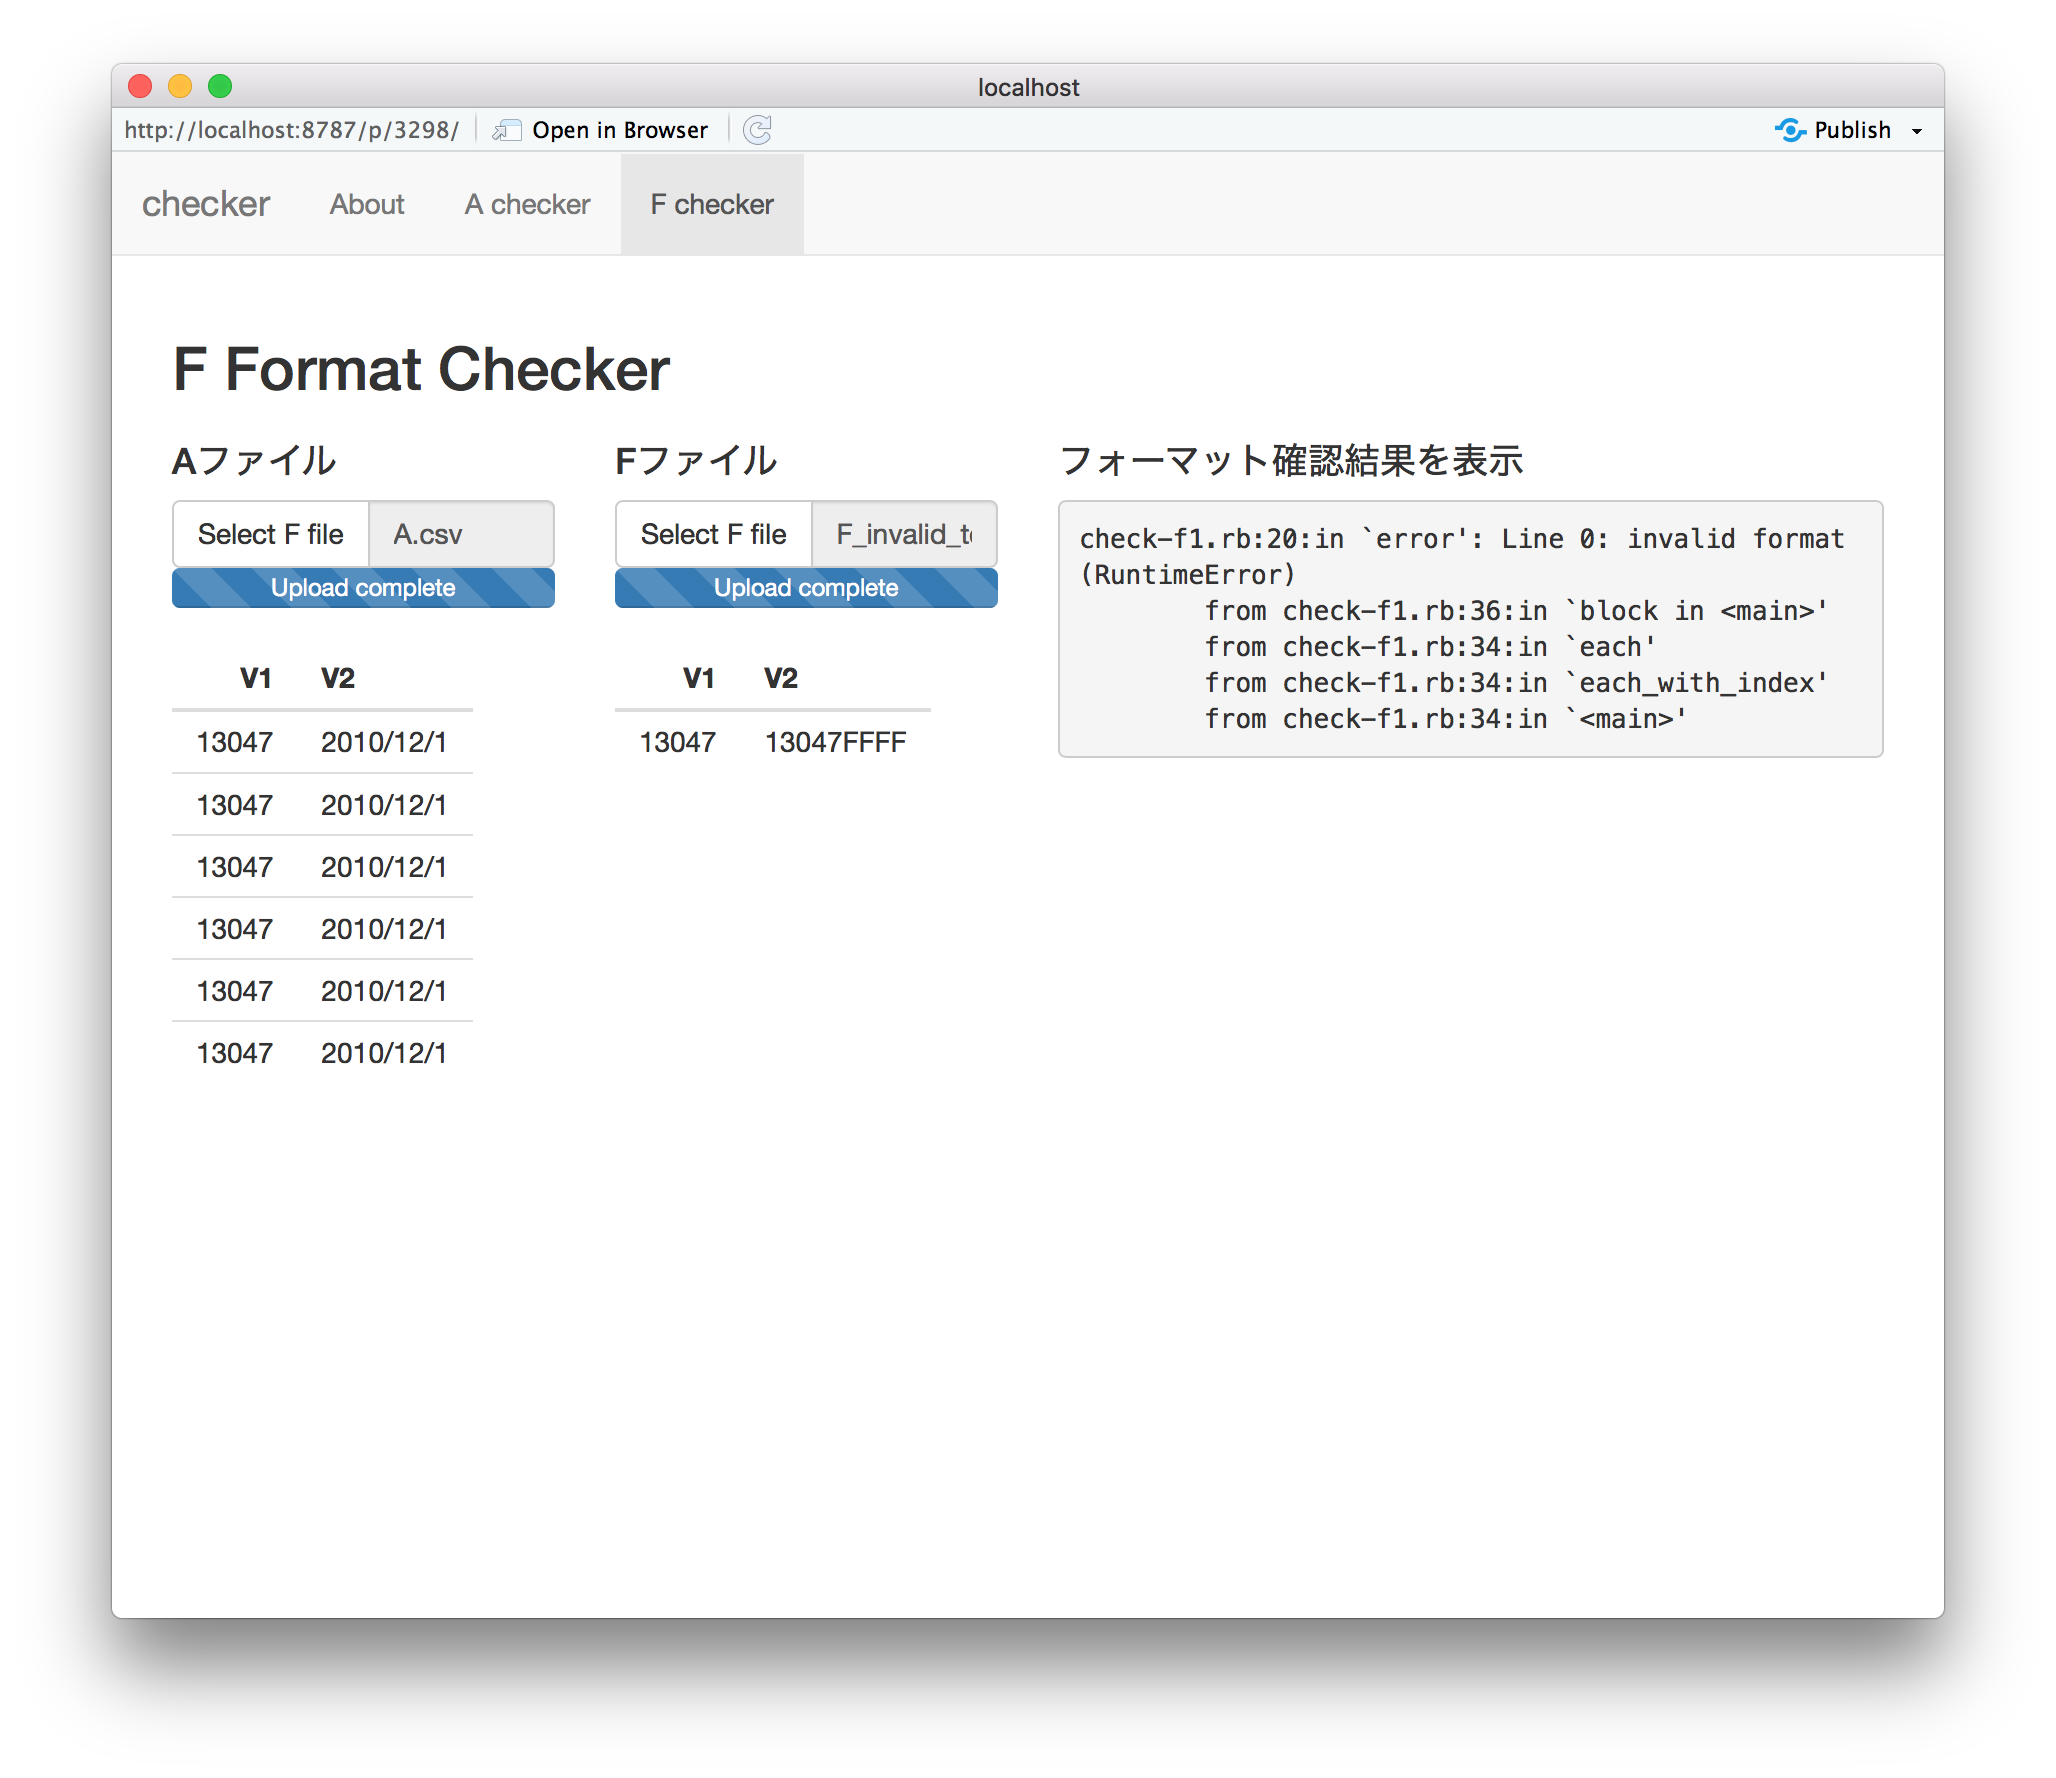
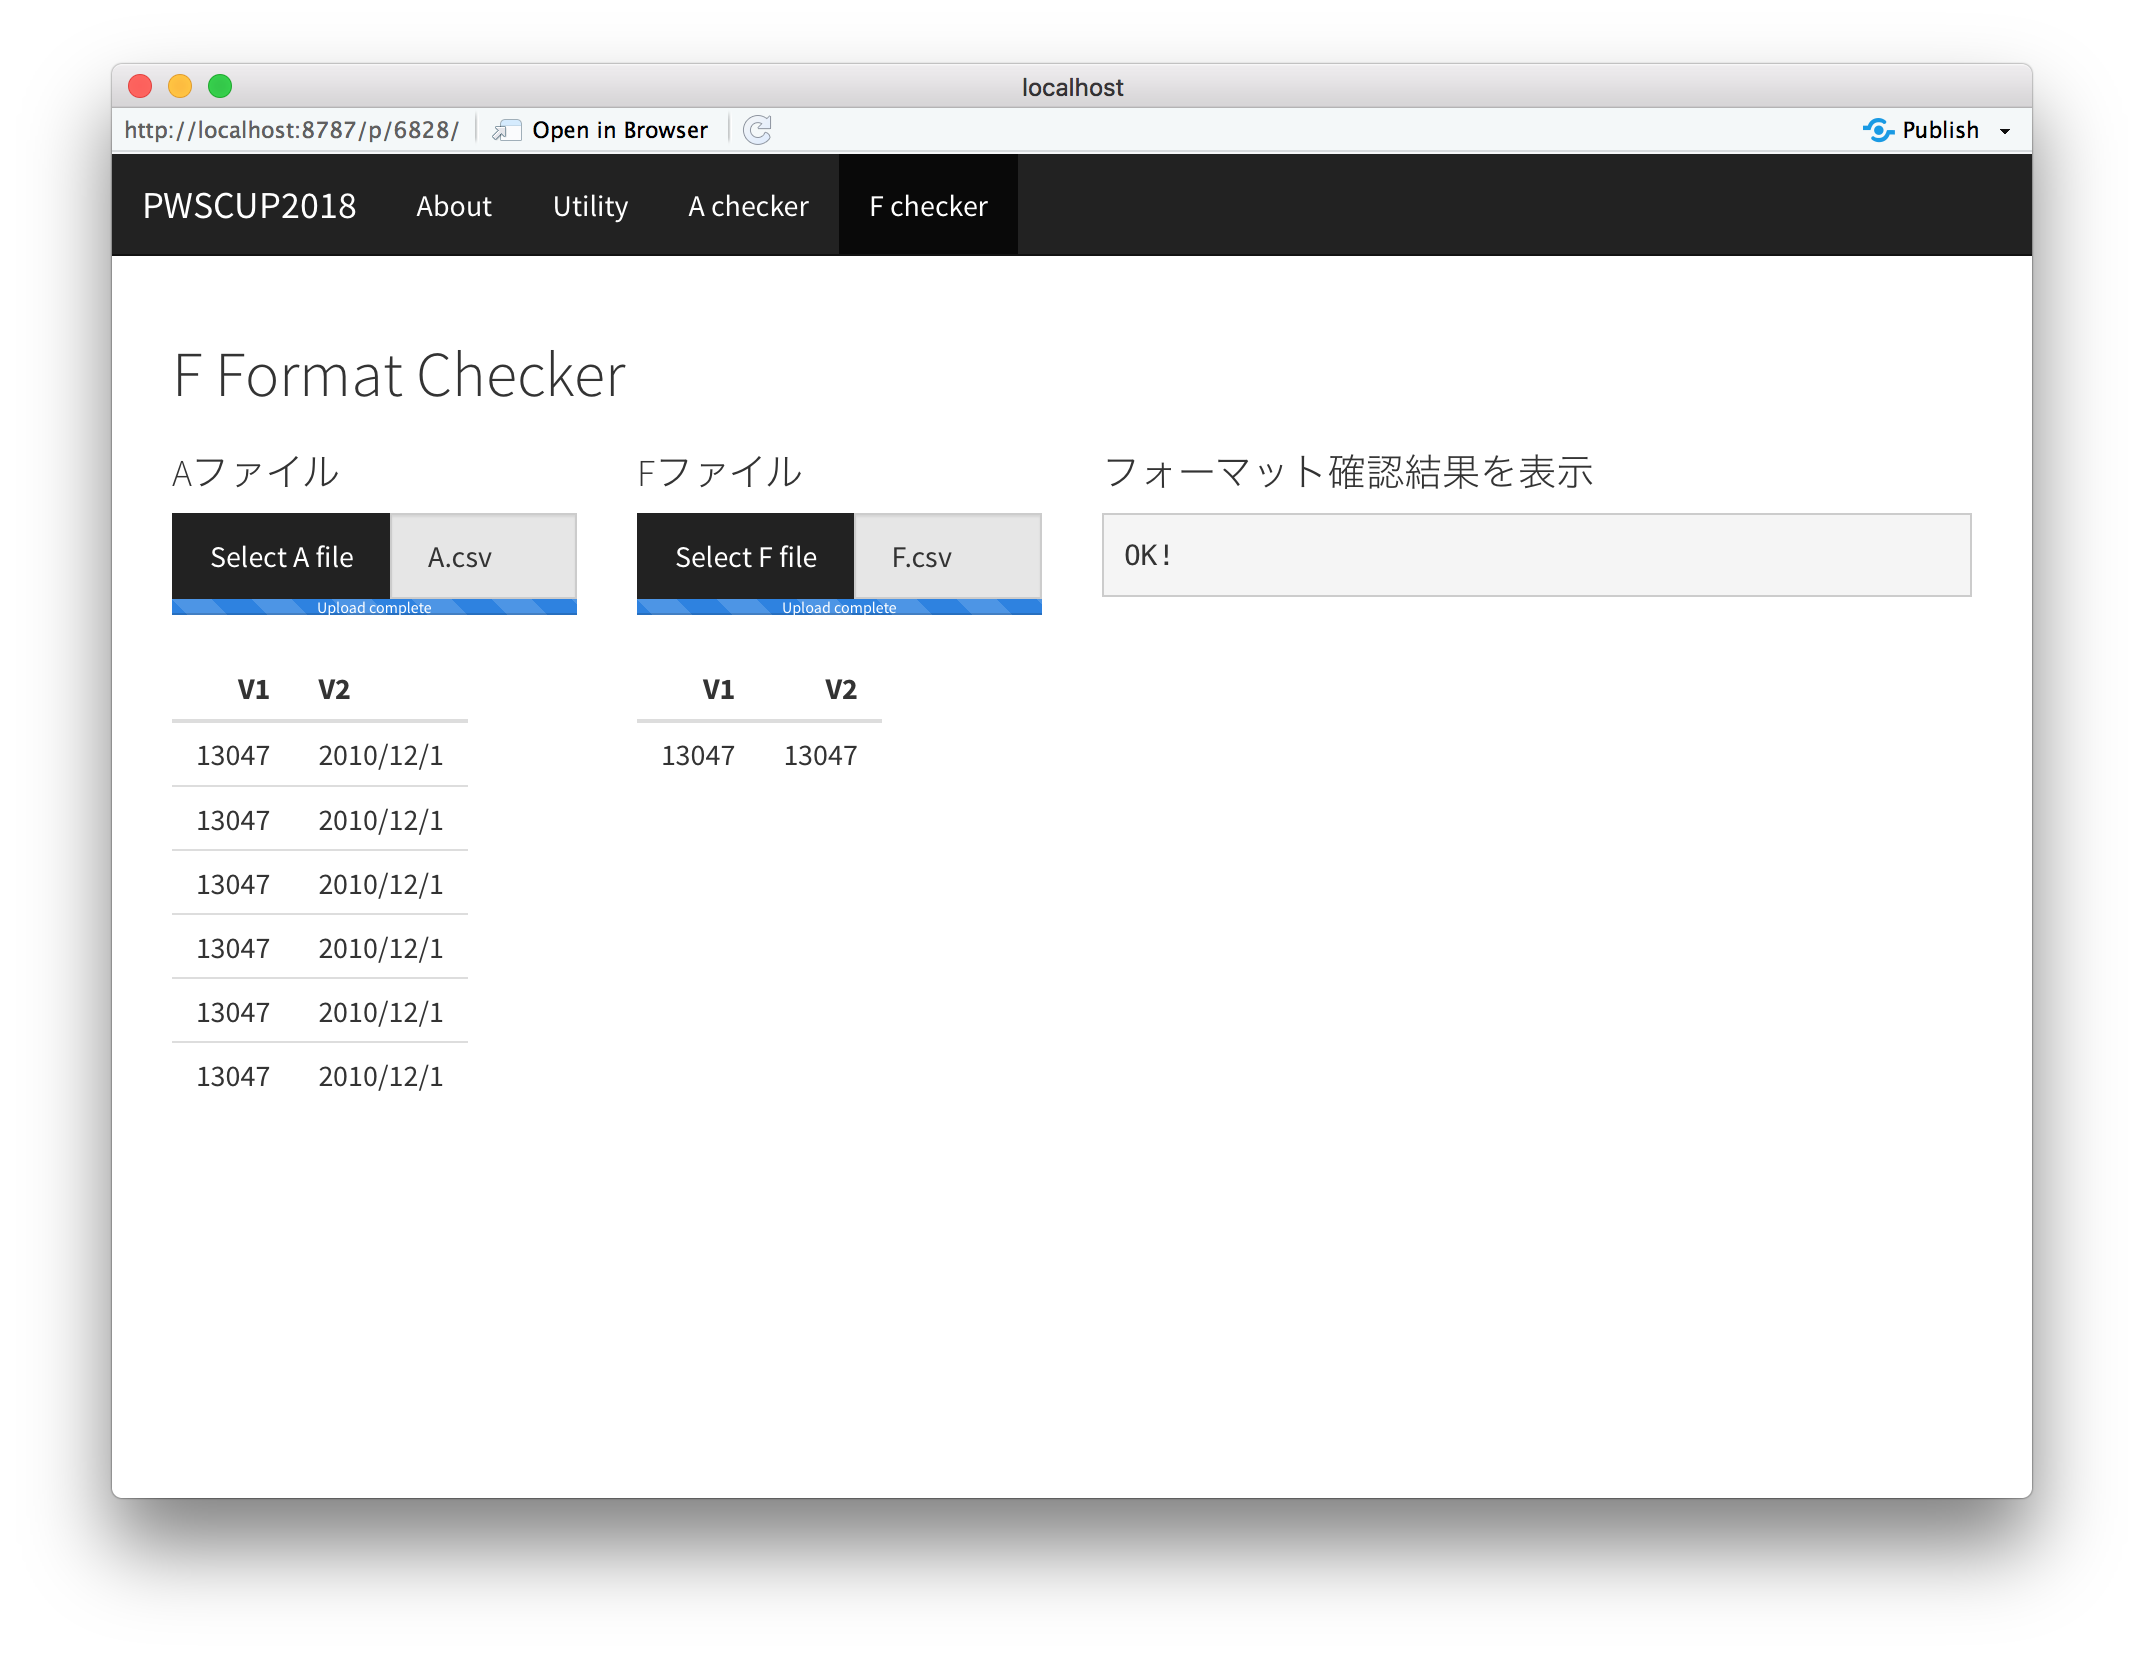
add utility

Changed region(s): [[0.0623, 0.1846, 0.9027, 0.6767], [0.0311, 0.0308, 0.965, 0.1538], [0.0623, 0.892, 0.965, 0.9228]]

diff --git a/README.md b/README.md
@@ -1,4 +1,4 @@
-PWSCUP2018 フォーマットチェッカー (Ver. 1.2)
+PWSCUP2018 フォーマットチェッカー (Ver. 1.4)
 ===
 
 ## 使い方
@@ -10,13 +10,16 @@ $ docker-compose up -d
 
 2. ブラウザで http://localhost:3838/pwscup2018webapp/  にアクセス
 
-3. フォーマットをチェックしたいデータをアップロードする
+3. 評価したいデータをアップロードする
+
+- Aの有用性・安全性評価
+![匿名加工データの有用性・安全性評価](./checker_A.png)
 
 - Aのチェック
-![匿名加工データAのフォーマットチェック](./checker_A.png)
+![匿名加工データAの書式チェック](./checker_A.png)
 
 - Fのチェック
-![推定対応表Fのフォーマットチェック](./checker_F.png)
+![推定対応表Fの書式チェック](./checker_F.png)
 
 
 ## 問い合わせ先
